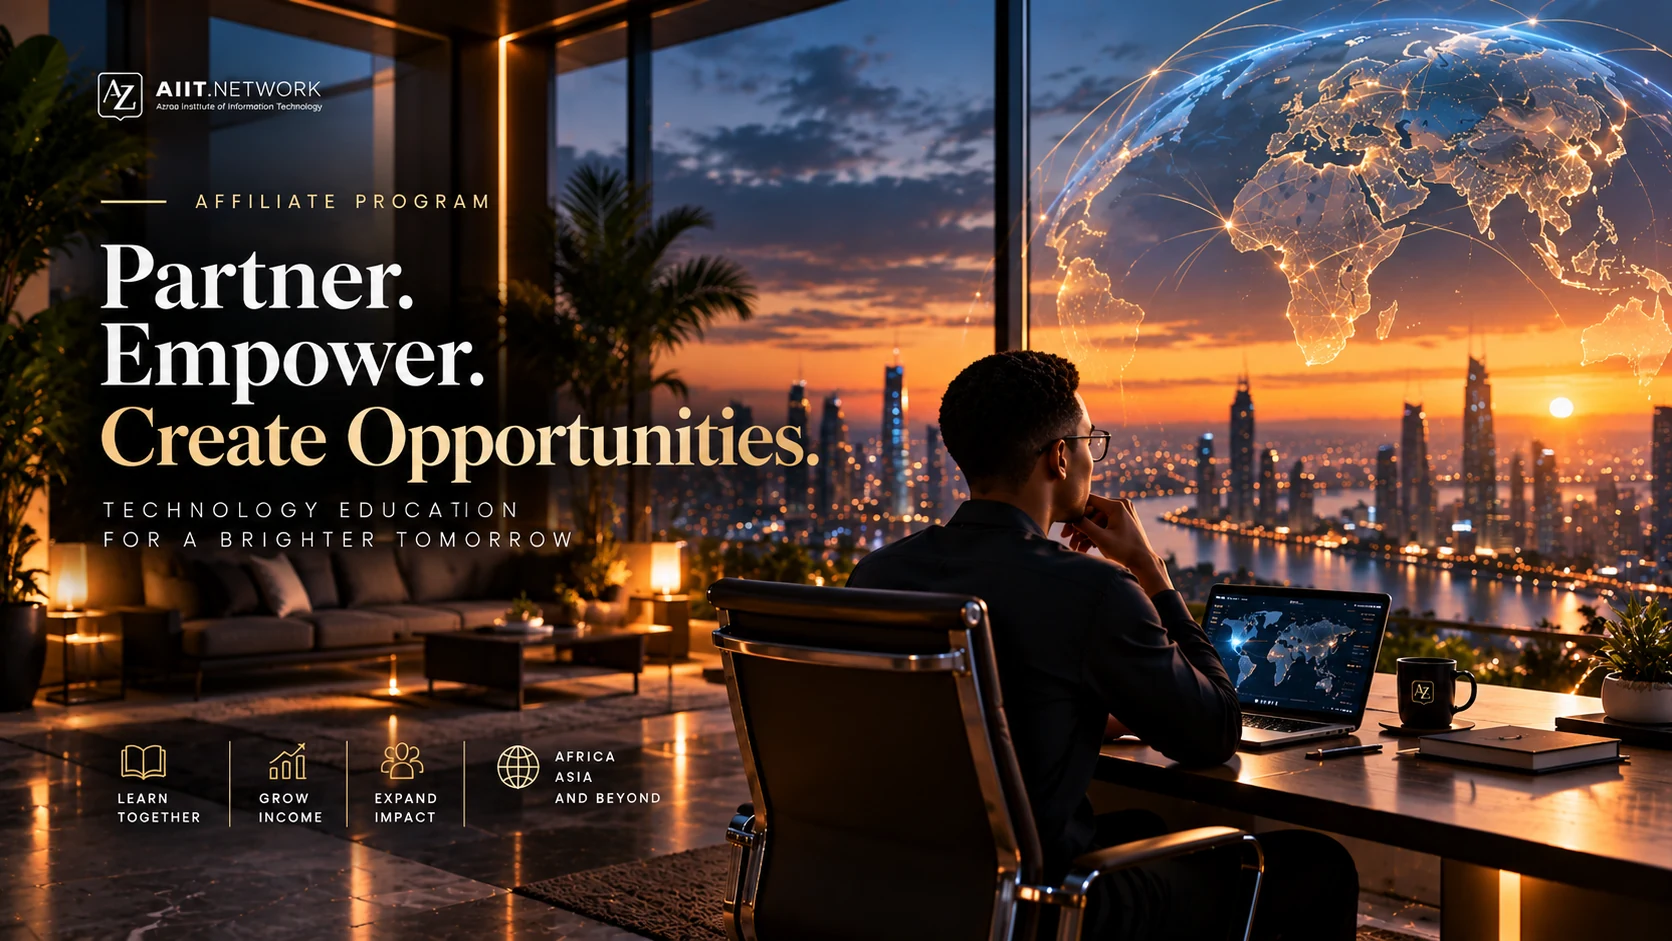
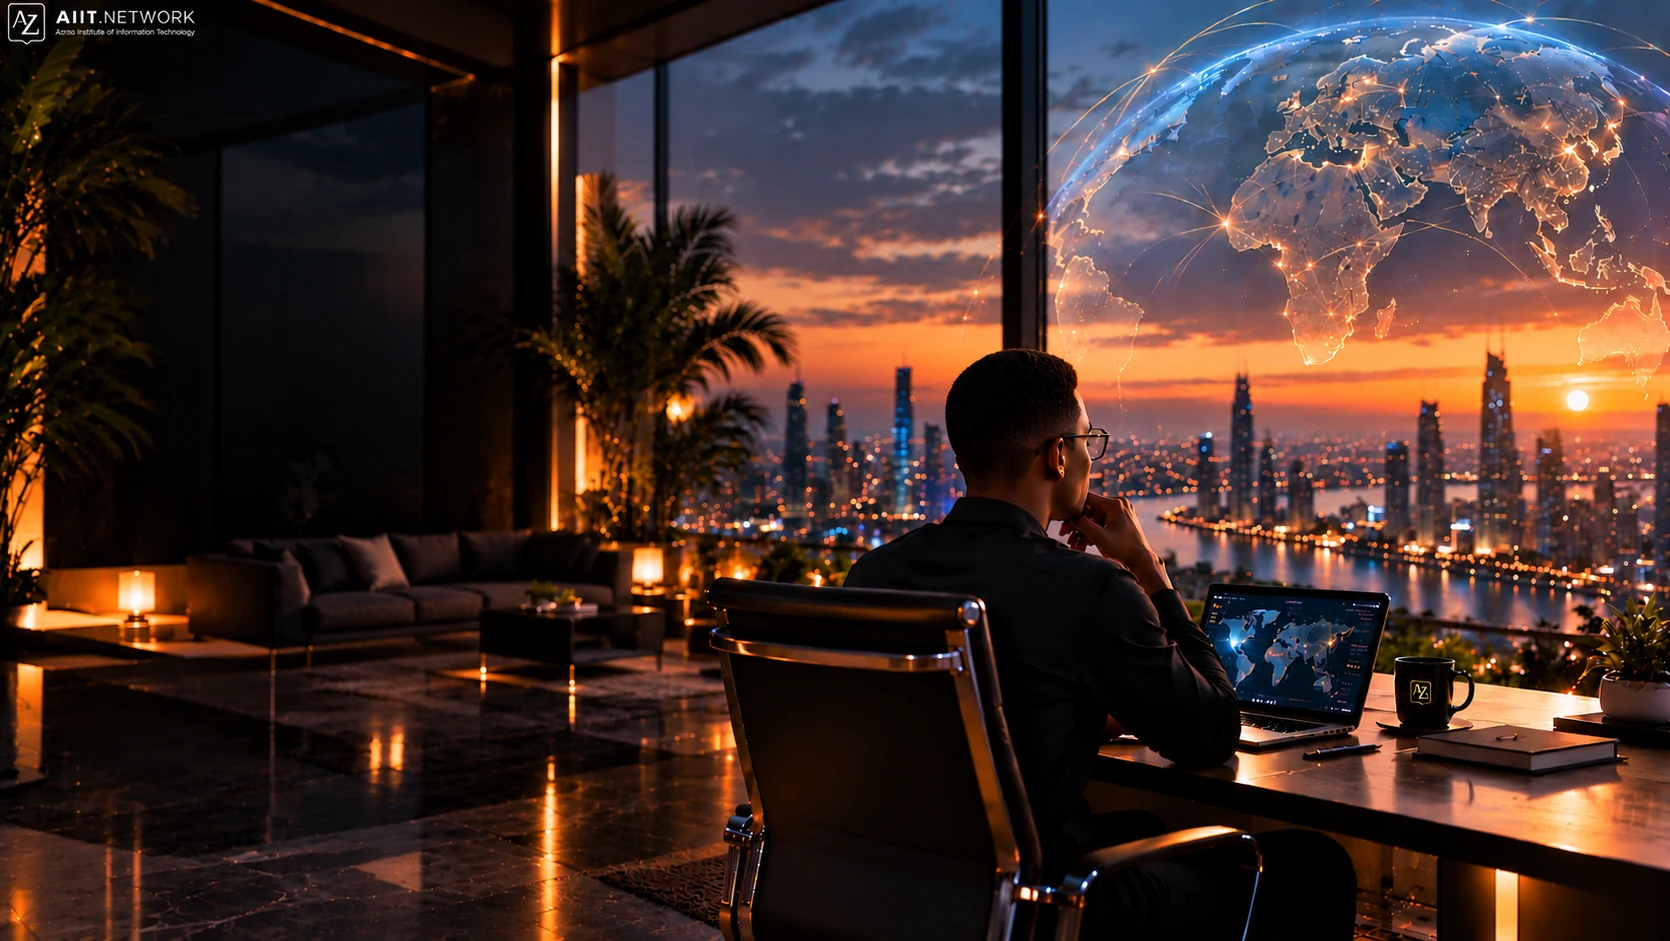
feat: new affiliate login photo + overlaid "Affiliate Program" eyebrow
Updated background image (cleaner office/skyline photo, just the
AIIT.NETWORK logo baked in -- no headline or program label this time).
Added a heroEyebrow prop to AuthLayout's hero layout: a gold dash +
small-caps label overlaid on the image, same visual language as
StaffShell's .shell__portal-dash, for a photo that doesn't carry its
own section label.

diff --git a/apps/web/src/pages/auth/AuthLayout.tsx b/apps/web/src/pages/auth/AuthLayout.tsx
@@ -28,11 +28,13 @@ interface AuthLayoutProps {
    * this mode -- the banner already carries its own.
    */
   layout?: 'split' | 'hero';
+  /** 'hero' only: a short gold eyebrow label (dash + small caps, same language as StaffShell's portal label) overlaid on the image, for a photo that doesn't already carry its own program/section label baked in. */
+  heroEyebrow?: string;
 }
 
 const DEFAULT_ASIDE_IMAGE = '/assets/auth/aiit-registration.webp';
 
-export function AuthLayout({ title, intro, children, footer, social, tone = 'default', asideImage, layout = 'split' }: AuthLayoutProps) {
+export function AuthLayout({ title, intro, children, footer, social, tone = 'default', asideImage, layout = 'split', heroEyebrow }: AuthLayoutProps) {
   const card = (
     <div className="auth__card">
       <Link to="/" className="auth__brand" aria-label="AIIT home">
@@ -58,6 +60,7 @@ export function AuthLayout({ title, intro, children, footer, social, tone = 'def
       <div className="auth auth--hero">
         <div className="auth__hero-band on-ink">
           <Plate source={asideImage ?? DEFAULT_ASIDE_IMAGE} seed="auth" ratio={16 / 9} tone="ink" fit="cover" alt="" />
+          {heroEyebrow && <p className="auth__hero-eyebrow">{heroEyebrow}</p>}
         </div>
         <main className="auth__main" id="main">
           {card}

diff --git a/apps/web/src/pages/auth/auth.css b/apps/web/src/pages/auth/auth.css
@@ -52,6 +52,31 @@
 .auth--hero .auth__card {
   box-shadow: 0 24px 60px -16px rgba(10, 8, 6, 0.55);
 }
+/* A short gold eyebrow label overlaid on the hero image -- same dash +
+   small-caps language as StaffShell's .shell__portal-dash -- for a photo
+   that doesn't already carry its own program/section label baked in. */
+.auth__hero-eyebrow {
+  position: absolute;
+  z-index: 1;
+  top: clamp(5rem, 11vh, 7rem);
+  left: clamp(1.5rem, 4vw, 3rem);
+  display: flex;
+  align-items: center;
+  gap: var(--space-3);
+  margin: 0;
+  color: var(--brass-tint);
+  font-size: var(--fs-eyebrow);
+  font-weight: 700;
+  letter-spacing: var(--tracking-eyebrow);
+  text-transform: uppercase;
+}
+.auth__hero-eyebrow::before {
+  content: '';
+  width: 28px;
+  height: 2px;
+  border-radius: 1px;
+  background: var(--brass-tint);
+}
 @media (max-width: 640px) {
   .auth--hero .auth__main {
     justify-content: center;

diff --git a/apps/web/src/pages/auth/AffiliateLoginPage.tsx b/apps/web/src/pages/auth/AffiliateLoginPage.tsx
@@ -135,6 +135,7 @@ export default function AffiliateLoginPage() {
       <AuthLayout
         layout="hero"
         asideImage={ASIDE_IMAGE}
+        heroEyebrow="Affiliate Program"
         title={mfaPending ? 'Two-factor authentication' : 'Affiliate sign-in'}
         intro={
           mfaPending
